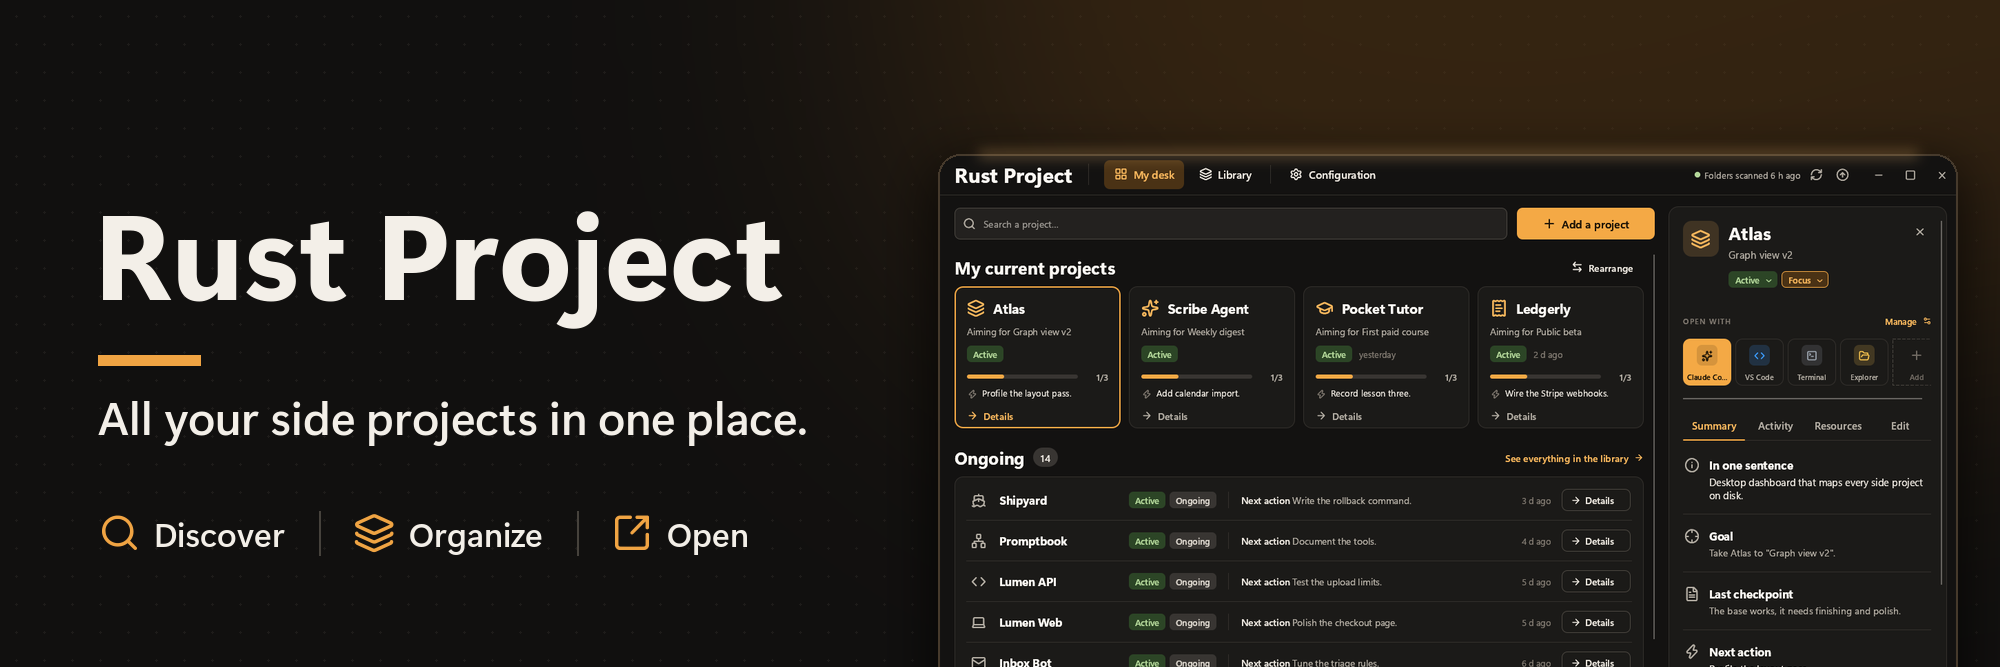
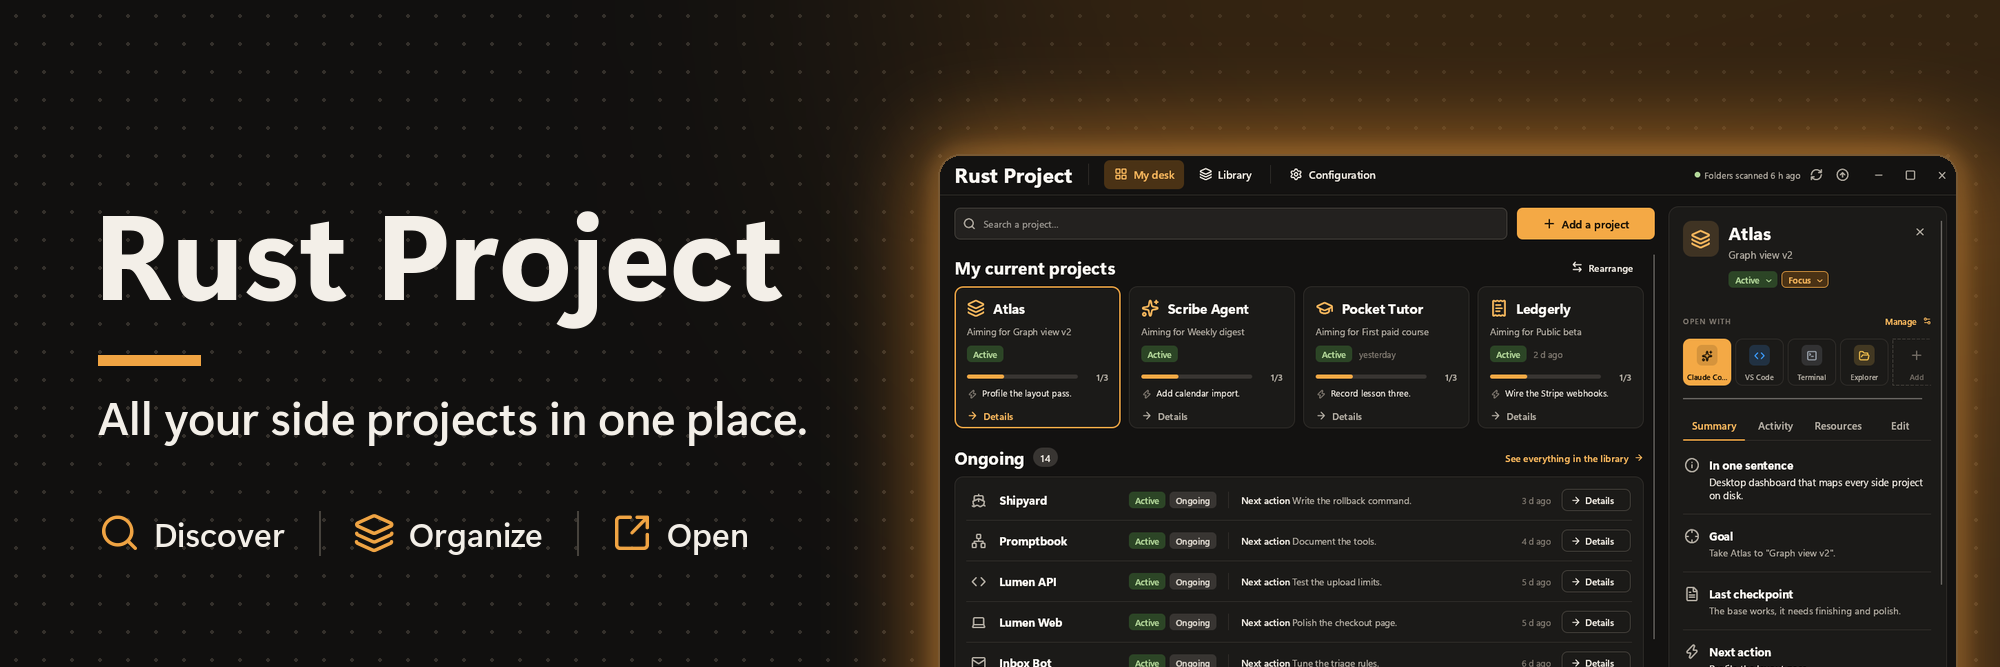
Bannière, halo autour de la fenêtre et trame plus visible

Changed region(s): [[0.434, 0.1499, 1.0, 1.0]]

diff --git a/docs/banner.py b/docs/banner.py
@@ -16,7 +16,7 @@ LUCIDE = glob.glob(os.path.expanduser("~/.cargo/registry/src/*/lucide-icons-*/lu
 BG = (17, 16, 15)
 INK = (243, 239, 232)
 AMBER = (240, 164, 67)
-FRAME = (70, 58, 44)
+FRAME = (120, 88, 50)
 
 
 def font(size, style):
@@ -31,7 +31,7 @@ img = Image.new("RGB", (W, H), BG)
 d = ImageDraw.Draw(img)
 for y in range(16, H, 28):
     for x in range(16, W, 28):
-        d.ellipse((x - 1, y - 1, x + 1, y + 1), fill=(30, 28, 26))
+        d.ellipse((x - 1.4, y - 1.4, x + 1.4, y + 1.4), fill=(52, 48, 43))
 
 # Une lueur ambre derrière la fenêtre, plus forte vers le haut.
 glow = Image.new("L", (W, H), 0)
@@ -46,17 +46,21 @@ shot = shot.resize((1020, int(shot.height * scale)), Image.LANCZOS)
 x0, y0 = W - shot.width - 42, 154
 radius = 22
 shadow = Image.new("L", (W, H), 0)
-ImageDraw.Draw(shadow).rounded_rectangle((x0 - 6, y0 + 10, x0 + shot.width + 6, H + 60), radius, fill=170)
-img.paste((0, 0, 0), (0, 0), shadow.filter(ImageFilter.GaussianBlur(26)))
+ImageDraw.Draw(shadow).rounded_rectangle((x0 - 6, y0 + 18, x0 + shot.width + 6, H + 60), radius, fill=150)
+img.paste((0, 0, 0), (0, 0), shadow.filter(ImageFilter.GaussianBlur(30)))
+# Le halo : une lueur ambre large et douce tout autour de la fenêtre…
+halo = Image.new("L", (W, H), 0)
+ImageDraw.Draw(halo).rounded_rectangle((x0 - 14, y0 - 14, x0 + shot.width + 14, H + 60), radius + 14, fill=150)
+img.paste((240, 150, 50), (0, 0), halo.filter(ImageFilter.GaussianBlur(42)))
+# … et une plus serrée, qui dessine le contour.
+rim = Image.new("L", (W, H), 0)
+ImageDraw.Draw(rim).rounded_rectangle((x0 - 3, y0 - 3, x0 + shot.width + 3, H + 60), radius + 3, outline=255, width=6)
+img.paste((255, 180, 90), (0, 0), rim.filter(ImageFilter.GaussianBlur(9)).point(lambda v: v * 0.55))
 mask = Image.new("L", shot.size, 0)
 ImageDraw.Draw(mask).rounded_rectangle((0, 0, shot.width - 1, shot.height + radius), radius, fill=255)
 img.paste(shot, (x0, y0), mask)
 d = ImageDraw.Draw(img)
 d.rounded_rectangle((x0, y0, x0 + shot.width - 1, H + radius), radius, outline=FRAME, width=2)
-# Un liseré de lumière sur le bord haut.
-edge = Image.new("L", (W, H), 0)
-ImageDraw.Draw(edge).rounded_rectangle((x0 + 40, y0 - 3, x0 + shot.width - 40, y0 + 3), 3, fill=90)
-img.paste((255, 196, 120), (0, 0), edge.filter(ImageFilter.GaussianBlur(6)))
 
 # Le texte, à gauche.
 d = ImageDraw.Draw(img)
